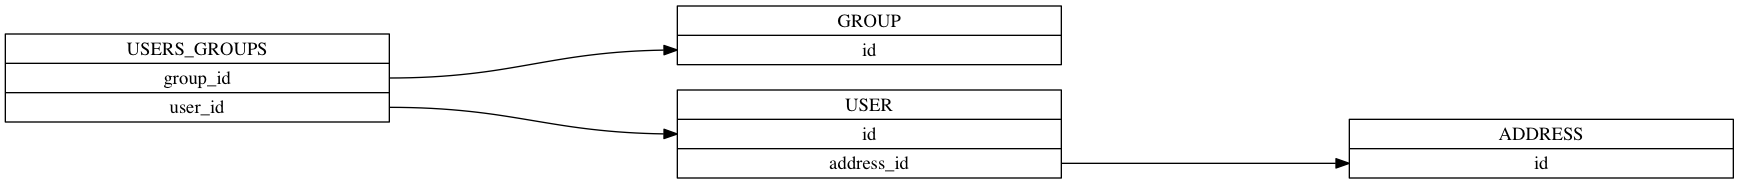
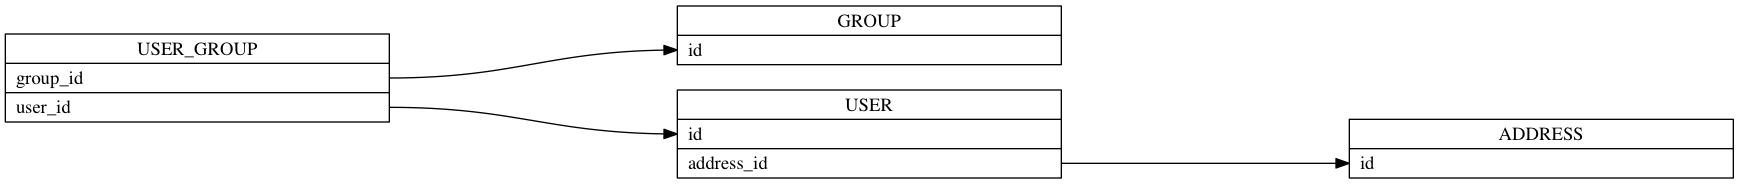
change line return character and left justify records

diff --git a/src/Graphviz/Graph.php b/src/Graphviz/Graph.php
@@ -28,13 +28,13 @@ class Graph extends Node
      */
     public function __toString()
     {
-        return "digraph g {\r\n".
-            implode("\r\n", $this->indentAll($this->attributes)).
-            "\r\n".
-            implode("\r\n", $this->indentAll($this->vertices)).
-            "\r\n".
-            implode("\r\n", $this->indentAll($this->edges)).
-            "\r\n}";
+        return 'digraph g {'.PHP_EOL.
+            implode(PHP_EOL, $this->indentAll($this->attributes)).
+            PHP_EOL.
+            implode(PHP_EOL, $this->indentAll($this->vertices)).
+            PHP_EOL.
+            implode(PHP_EOL, $this->indentAll($this->edges)).
+            PHP_EOL.'}';
     }
 
     /**

diff --git a/src/Graphviz/Vertex.php b/src/Graphviz/Vertex.php
@@ -32,9 +32,9 @@ class Vertex extends Node
     {
         $this->buildAttributes();
 
-        return "$this->id [\r\n".
-            implode("\r\n", $this->indentAll($this->attributes)).
-            "\r\n]";
+        return "$this->id [".PHP_EOL.
+            implode(PHP_EOL, $this->indentAll($this->attributes)).
+            PHP_EOL.']';
     }
 
     /**

diff --git a/src/DependencyInjection/DoctrinevizBundleExtension.php b/src/DependencyInjection/DoctrinevizBundleExtension.php
@@ -26,6 +26,9 @@ use Symfony\Component\HttpKernel\DependencyInjection\Extension;
  */
 class DoctrinevizBundleExtension extends Extension implements PrependExtensionInterface
 {
+    /**
+     * {@inheritdoc}
+     */
     public function prepend(ContainerBuilder $container)
     {
         $requiredBundles = [

diff --git a/src/Graphviz/Graphviz.php b/src/Graphviz/Graphviz.php
@@ -106,6 +106,9 @@ class Graphviz
      */
     public function createImageData(Graph $graph)
     {
+        if ('dot' === $this->format) {
+            return (string) $graph;
+        }
         $file = $this->createImageFile($graph);
         $data = file_get_contents($file);
         unlink($file);

diff --git a/src/Graphviz/Node.php b/src/Graphviz/Node.php
@@ -50,7 +50,7 @@ abstract class Node
     {
         $pad = str_repeat(' ', $spaces);
 
-        return $pad.implode("\r\n$pad", explode("\r\n", $string));
+        return $pad.implode(PHP_EOL."$pad", explode(PHP_EOL, $string));
     }
 
     /**

diff --git a/src/Graphviz/Record.php b/src/Graphviz/Record.php
@@ -16,7 +16,7 @@ class Record
      */
     public function __toString()
     {
-        return "<$this->id>$this->id";
+        return "<$this->id> $this->id\\l";
     }
 
     /**
